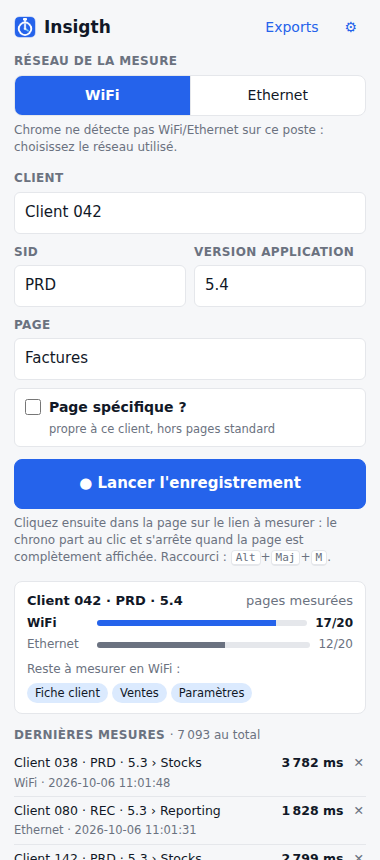
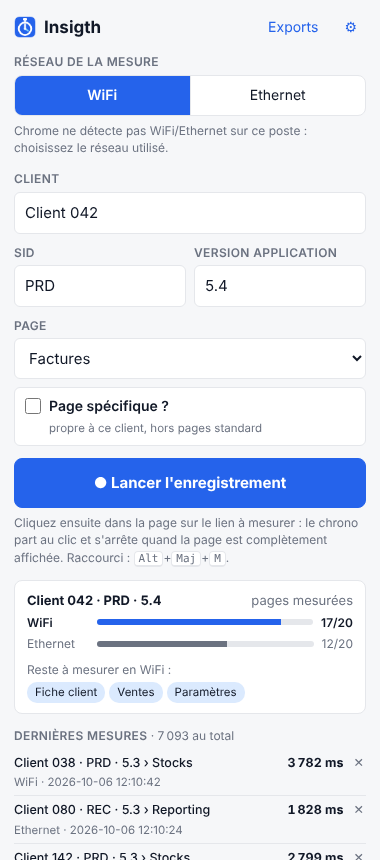
Champ « Page » : liste du menu par rubrique + saisie libre
- Formulaire : le champ Page devient une liste des 45 pages du menu de
  l'application, rangées par rubrique (Fiche Salarié, Listes Collaborateurs,
  RH Suivi Effectifs, Masse Salariale, Hyp. Budgétaires, Index Egalité HF,
  Absentéisme, Publisher, Finance avec la sous-rubrique Méthode ABC -
  Synthèse), suivies des autres pages déjà enregistrées.
- « ✎ Saisie libre » affiche un champ texte, pré-rempli avec la page en
  cours et auto-complété avec les pages du menu et celles déjà connues ; un
  nom tapé est rattaché à l'orthographe du menu (« liste mensuelle »).
- « Page suivante » propose les pages des réglages, puis celles du menu pas
  encore mesurées ; les pastilles « Reste à mesurer » positionnent la liste.
- Nouveau module lib/menu.js, tests unitaires (28) et e2e mis à jour,
  README et capture du formulaire, version 3.2.0.

Claude-Session: https://claude.ai/code/session_01Axa7Xvzh5ew4aqVjG52R2h

diff --git a/extension/panel/panel.js b/extension/panel/panel.js
@@ -9,7 +9,8 @@ import {
   isMeasureKey,
 } from '../lib/storage.js';
 import { buildModel, cellStat, rate, coverage, missingPages, lineKey, lineLabel } from '../lib/report.js';
-import { nameKey, normName, suggestApp, nextPage, compareNames } from '../lib/names.js';
+import { nameKey, normName, canonical, suggestApp, nextPage, compareNames } from '../lib/names.js';
+import { MENU, MENU_PAGES } from '../lib/menu.js';
 import { phases } from '../lib/timing.js';
 import { urlEnd } from '../lib/urls.js';
 import { NETWORKS, NETWORK_LABELS, STATS, fmtMs, fmtDate } from '../lib/format.js';
@@ -18,6 +19,7 @@ const $ = (id) => document.getElementById(id);
 const nf = new Intl.NumberFormat('fr-FR', { maximumFractionDigits: 0 });
 const params = new URLSearchParams(location.search);
 const fixedTabId = params.has('tabId') ? Number(params.get('tabId')) : null; // ouverture dans un onglet (tests)
+const FREE = '__free__'; // choix « Saisie libre » de la liste des pages
 
 const state = {
   config: null,
@@ -47,6 +49,15 @@ function setSpecific(value) {
   $('specific').checked = !!value;
   saveDraft({ specific: !!value });
 }
+
+/** Pages du menu, puis pages connues hors menu (référentiel et mesures). */
+function pageNames() {
+  const names = [...MENU_PAGES];
+  const keys = new Set(names.map(nameKey));
+  for (const p of state.model.allPages) if (!keys.has(nameKey(p.name))) names.push(p.name);
+  return names;
+}
+
 const formLine = () => lineKey($('app').value, $('sid').value, $('version').value);
 const sessionLine = (s) => lineKey(s.app, s.sid, s.version);
 
@@ -138,8 +149,9 @@ function renderNetHint(settings) {
 function renderForm() {
   const { model, config } = state;
   $('appList').replaceChildren(...model.clients.map((name) => el('option', { value: name })));
-  $('pageList').replaceChildren(...model.allPages.map((p) => el('option', { value: p.name })));
-  if (!state.formFilled) {
+  $('pageList').replaceChildren(...pageNames().map((name) => el('option', { value: name })));
+  const refill = !state.formFilled;
+  if (refill) {
     state.formFilled = true;
     $('app').value = config.draft.app || '';
     $('sid').value = config.draft.sid || '';
@@ -147,8 +159,52 @@ function renderForm() {
     $('page').value = config.draft.page || '';
     $('specific').checked = !!config.draft.specific;
   }
+  renderPagePick(refill);
   renderLineLists();
   updateSuggestion();
+}
+
+/**
+ * Liste des pages : menu par rubrique, puis pages connues hors menu, et « Saisie libre »
+ * qui affiche le champ texte. Le champ texte (#page) garde toujours la page choisie.
+ */
+function renderPagePick(refill) {
+  const pick = $('pagePick');
+  const free = !refill && pick.value === FREE; // saisie libre en cours : on la laisse ouverte
+  const option = (value, text = value) => el('option', { value, textContent: text });
+  const menuKeys = new Set(MENU_PAGES.map(nameKey));
+  const others = state.model.allPages.filter((p) => !menuKeys.has(nameKey(p.name)));
+  pick.replaceChildren(
+    option('', '— Choisir une page —'),
+    option(FREE, '✎ Saisie libre (autre page)…'),
+    ...MENU.map((r) =>
+      r.pages ? el('optgroup', { label: r.title }, ...r.pages.map((p) => option(p.name, p.label))) : option(r.title),
+    ),
+    others.length ? el('optgroup', { label: 'Autres pages' }, ...others.map((p) => option(p.name))) : null,
+  );
+  syncPagePick(free);
+}
+
+/** Positionne la liste sur la page du champ texte (saisie libre si elle n'y est pas). */
+function syncPagePick(free = false) {
+  const pick = $('pagePick');
+  const input = $('page');
+  const value = normName(input.value);
+  const match =
+    !free && value && [...pick.options].find((o) => o.value && o.value !== FREE && nameKey(o.value) === nameKey(value));
+  if (match) {
+    pick.value = match.value;
+    input.value = match.value;
+  } else {
+    pick.value = free || value ? FREE : '';
+  }
+  input.hidden = pick.value !== FREE;
+}
+
+function focusPage() {
+  if ($('page').hidden) return $('pagePick').focus();
+  $('page').focus();
+  $('page').select();
 }
 
 /** SID et versions proposés : ceux déjà vus pour ce client d'abord. */
@@ -462,10 +518,10 @@ async function arm() {
   const app = normName($('app').value);
   const sid = normName($('sid').value);
   const version = normName($('version').value);
-  const page = normName($('page').value);
+  const page = canonical($('page').value, pageNames());
   $('formError').textContent = '';
   if (!app) return showError('Indiquez le client.', 'app');
-  if (!page) return showError('Indiquez le nom de la page.', 'page');
+  if (!page) return showError('Choisissez la page.', $('page').hidden ? 'pagePick' : 'page');
   const tab = await targetTab();
   if (!tab) return showError('Aucun onglet actif.');
   const specific = $('specific').checked;
@@ -493,16 +549,15 @@ function showError(text, focusId) {
 async function goNext() {
   const s = state.session;
   if (!s) return;
+  // Ordre des pages du référentiel, puis pages du menu qui n'y sont pas encore.
+  const known = new Set(state.model.allPages.map((p) => nameKey(p.name)));
+  const order = [...state.model.pages.map((p) => p.name), ...MENU_PAGES.filter((name) => !known.has(nameKey(name)))];
   const done = new Set(
-    state.model.pages
-      .filter((p) => cellStat(state.model, sessionLine(s), p.name, s.network, 'avg').status !== 'missing')
-      .map((p) => nameKey(p.name)),
+    order
+      .filter((name) => cellStat(state.model, sessionLine(s), name, s.network, 'avg').status !== 'missing')
+      .map(nameKey),
   );
-  const next = nextPage(
-    state.model.pages.map((p) => p.name),
-    s.page,
-    done,
-  );
+  const next = nextPage(order, s.page, done);
   await saveDraft({
     app: s.app,
     sid: s.sid || '',
@@ -513,8 +568,7 @@ async function goNext() {
   state.formFilled = false; // reprendre les valeurs du brouillon
   await send({ type: 'finish' });
   await load();
-  $('page').focus();
-  $('page').select();
+  focusPage();
 }
 
 async function relaunch(network) {
@@ -553,6 +607,14 @@ for (const id of ['app', 'sid', 'version', 'page']) {
 }
 $('app').addEventListener('change', prefillLine);
 $('page').addEventListener('change', () => setSpecific(knownSpecific($('app').value, $('page').value)));
+$('pagePick').addEventListener('change', () => {
+  const pick = $('pagePick').value;
+  $('page').hidden = pick !== FREE;
+  if (pick === FREE) return focusPage(); // champ pré-rempli avec la page en cours, prêt à être remplacé
+  $('page').value = pick;
+  saveDraft({ page: pick });
+  setSpecific(knownSpecific($('app').value, pick));
+});
 $('specific').addEventListener('change', (e) => saveDraft({ specific: e.target.checked }));
 $('appSuggestUse').addEventListener('click', () => {
   $('app').value = state.suggestion || '';
@@ -564,6 +626,7 @@ $('progress').addEventListener('click', (e) => {
   const chip = e.target.closest('[data-page]');
   if (!chip) return;
   $('page').value = chip.dataset.page;
+  syncPagePick();
   saveDraft({ page: chip.dataset.page });
   setSpecific(knownSpecific($('app').value, chip.dataset.page));
   $('arm').focus();

diff --git a/extension/lib/menu.js b/extension/lib/menu.js
@@ -1,0 +1,88 @@
+// Menu de l'application mesurée : pages standard proposées dans le formulaire
+// (champ « Page »), dans l'ordre du menu, regroupées par rubrique.
+
+/** Page d'une sous-rubrique : affichée « Sous-rubrique › Page », enregistrée sous son seul nom. */
+const sub = (parent, name) => ({ name, label: `${parent} › ${name}` });
+
+/**
+ * Rubriques du menu, dans l'ordre. Une rubrique sans `pages` est un lien direct
+ * (pas de sous-menu) : c'est elle-même la page.
+ */
+const RAW = [
+  { title: 'Fiche Salarié', pages: ['Fiche Salarié', 'Détail Paye par Salarié'] },
+  {
+    title: 'Listes Collaborateurs',
+    pages: [
+      'Tree-View',
+      'Liste Mensuelle',
+      'Liste Annuelle',
+      'Liste par Rubrique',
+      'Pointage des Salariés',
+      'Pivot - Liste Mensuelle',
+    ],
+  },
+  {
+    title: 'RH Suivi Effectifs',
+    pages: [
+      'Effectif par Catégorie',
+      'Suivi des effectifs',
+      'Pyramide - Ancienneté',
+      'Pyramide - Age',
+      'Analyse des Salaires',
+      'Turn-Over',
+    ],
+  },
+  {
+    title: 'Masse Salariale',
+    pages: [
+      'Masse Salariale Croisée',
+      'MS par Organisation',
+      'Liste Annuelle (Diffusion)',
+      'Ecart Réel',
+      'Suivi Réel / Budget',
+      'Ecart Budgétaire',
+      'Ecart Budgétaire Bis',
+      'Analyse des Ecarts',
+      'Livre de Paye',
+      'Diffusion CDG',
+    ],
+  },
+  {
+    title: 'Hyp. Budgétaires',
+    pages: [
+      'Modifications de Postes',
+      'Embauches Prévisionnelles',
+      'Saisie Individuelle',
+      'Saisie des enveloppes par service',
+      'Saisie des enveloppes par rubrique',
+      'Hypothèses globales',
+      'Contrôles Effectifs',
+      'Contrôles des Changements',
+    ],
+  },
+  { title: 'Index Egalité HF', pages: ['Barèmes', 'Liste', 'Tableau de Bord'] },
+  { title: 'Absentéisme' },
+  { title: 'Publisher' },
+  {
+    title: 'Finance',
+    pages: [
+      'Comptes Mensuels',
+      'Comptes -Suivi Budgétaire',
+      'Calcul Estimé',
+      'Comptes par Organisation',
+      'Suivi Réel Cumulé',
+      sub('Méthode ABC - Synthèse', 'Coûts directs av Répart.'),
+      'Saisies Budgétaires Finance',
+      'Ecriture Budgétaire',
+    ],
+  },
+];
+
+/** Rubriques : { title, pages: [{ name, label }] }, `pages` à null pour un lien direct. */
+export const MENU = RAW.map((r) => ({
+  title: r.title,
+  pages: r.pages ? r.pages.map((p) => (typeof p === 'string' ? { name: p, label: p } : p)) : null,
+}));
+
+/** Noms des pages du menu, dans l'ordre. */
+export const MENU_PAGES = MENU.flatMap((r) => (r.pages ? r.pages.map((p) => p.name) : [r.title]));

diff --git a/tests/unit/menu.test.js b/tests/unit/menu.test.js
@@ -1,0 +1,40 @@
+import { test } from 'node:test';
+import assert from 'node:assert/strict';
+import { MENU, MENU_PAGES } from '../../extension/lib/menu.js';
+import { nameKey } from '../../extension/lib/names.js';
+
+test('menu : rubriques et pages dans l’ordre', () => {
+  assert.deepEqual(
+    MENU.map((r) => r.title),
+    [
+      'Fiche Salarié',
+      'Listes Collaborateurs',
+      'RH Suivi Effectifs',
+      'Masse Salariale',
+      'Hyp. Budgétaires',
+      'Index Egalité HF',
+      'Absentéisme',
+      'Publisher',
+      'Finance',
+    ],
+  );
+  assert.deepEqual(
+    MENU.map((r) => (r.pages ? r.pages.length : 0)),
+    [2, 6, 6, 10, 8, 3, 0, 0, 8],
+  );
+  assert.equal(MENU_PAGES.length, 45);
+  assert.equal(MENU_PAGES[0], 'Fiche Salarié');
+  assert.equal(MENU_PAGES.at(-1), 'Ecriture Budgétaire');
+});
+
+test('menu : liens directs et sous-rubrique', () => {
+  assert.ok(MENU_PAGES.includes('Absentéisme') && MENU_PAGES.includes('Publisher'), 'liens directs = pages');
+  const finance = MENU.find((r) => r.title === 'Finance').pages;
+  const abc = finance.find((p) => p.name === 'Coûts directs av Répart.');
+  assert.equal(abc.label, 'Méthode ABC - Synthèse › Coûts directs av Répart.');
+  assert.ok(!MENU_PAGES.includes('Méthode ABC - Synthèse'), 'la sous-rubrique n’est pas une page');
+});
+
+test('menu : noms de pages uniques', () => {
+  assert.equal(new Set(MENU_PAGES.map(nameKey)).size, MENU_PAGES.length);
+});

diff --git a/extension/panel/panel.html b/extension/panel/panel.html
@@ -45,10 +45,19 @@
             <input id="version" type="text" list="versionList" placeholder="ex. 5.3.2" spellcheck="false" />
           </label>
         </div>
-        <label class="field">
-          <span>Page</span>
-          <input id="page" type="text" list="pageList" placeholder="ex. Salarié" spellcheck="false" />
-        </label>
+        <div class="field">
+          <span id="pageTitle">Page</span>
+          <select id="pagePick" aria-labelledby="pageTitle"></select>
+          <input
+            id="page"
+            type="text"
+            list="pageList"
+            placeholder="Nom de la page"
+            aria-label="Page (saisie libre)"
+            spellcheck="false"
+            hidden
+          />
+        </div>
         <label class="check-line">
           <input id="specific" type="checkbox" />
           <span>Page spécifique ?</span>

diff --git a/extension/panel/panel.css b/extension/panel/panel.css
@@ -92,10 +92,19 @@ kbd {
   color: var(--muted);
 }
 
-.field input {
+.field input,
+.field select {
   width: 100%;
   font-size: 15px;
   padding: 9px 10px;
+}
+
+.field select optgroup {
+  font-weight: 700;
+}
+
+.field select option {
+  font-weight: 400;
 }
 
 .suggest {

diff --git a/README.md b/README.md
@@ -21,9 +21,12 @@ de pages.
 1. Cliquez sur l'icône Insigth : le **panneau latéral** s'ouvre. Il reste ouvert pendant que vous
    cliquez dans l'application.
 2. Choisissez le réseau (**WiFi** / **Ethernet**) et remplissez **Client**, **SID**,
-   **Version application** et **Page**. Cochez **Page spécifique ?** si la page est propre à ce
-   client (hors pages standard). Cliquez ensuite sur **Lancer l'enregistrement** (ou appuyez sur
-   Entrée).
+   **Version application** et **Page**. La page se choisit dans la liste du menu de l'application,
+   rangée par rubrique (Fiche Salarié, Listes Collaborateurs, RH Suivi Effectifs, Masse Salariale,
+   Hyp. Budgétaires, Index Egalité HF, Absentéisme, Publisher, Finance), ou parmi les autres pages
+   déjà enregistrées. Pour une autre page, choisissez **✎ Saisie libre** et tapez son nom. Cochez
+   **Page spécifique ?** si la page est propre à ce client (hors pages standard). Cliquez ensuite
+   sur **Lancer l'enregistrement** (ou appuyez sur Entrée).
 3. Dans la page, cliquez sur le lien ou le menu qui ouvre la page à mesurer. Le chrono part **au
    clic** et s'arrête quand la page est **complètement affichée**.
 4. Le temps s'affiche et la mesure est enregistrée. Trois choix s'offrent à vous :
@@ -32,7 +35,7 @@ de pages.
      sur le même lien ;
    - **↻ Refaire en WiFi** : une mesure de plus sur le même réseau (pour une médiane fiable) ;
    - **Page suivante →** : retour au formulaire. Client, SID et version sont conservés, et la page
-     suivante de la liste qui n'a pas encore été mesurée est proposée.
+     suivante qui n'a pas encore été mesurée est proposée : pages des réglages, puis pages du menu.
 
 Un petit indicateur en bas à droite de la page affiche l'état : prêt, mesure en cours, puis
 résultat.
@@ -61,8 +64,8 @@ retrouve uniquement dans l'export **Détail des temps — une page**.
 
 ### Pour aller plus vite
 
-- **Auto-complétion** des clients, SID, versions et pages. « client a » est automatiquement rattaché
-  à « Client A ».
+- **Auto-complétion** des clients, SID, versions et pages (en saisie libre aussi). « client a » est
+  automatiquement rattaché à « Client A », « liste mensuelle » à « Liste Mensuelle ».
 - **Client proposé d'après l'onglet** ouvert, à partir des mesures déjà faites sur ce site ou de
   l'URL déclarée dans les réglages. Quand vous choisissez un client, son SID et sa version sont
   repris de sa dernière mesure.
@@ -241,6 +244,7 @@ extension/
     xlsx.js              générateur .xlsx sans dépendance (cases colorées)
     storage.js           stockage, renommage, suppression, sauvegarde / import, migration
     names.js             noms (normalisation, suggestion du client, page suivante)
+    menu.js              pages du menu de l'application, par rubrique (liste du champ « Page »)
     apps.js              import en masse des clients et des pages
     urls.js, export.js, format.js
 tests/
